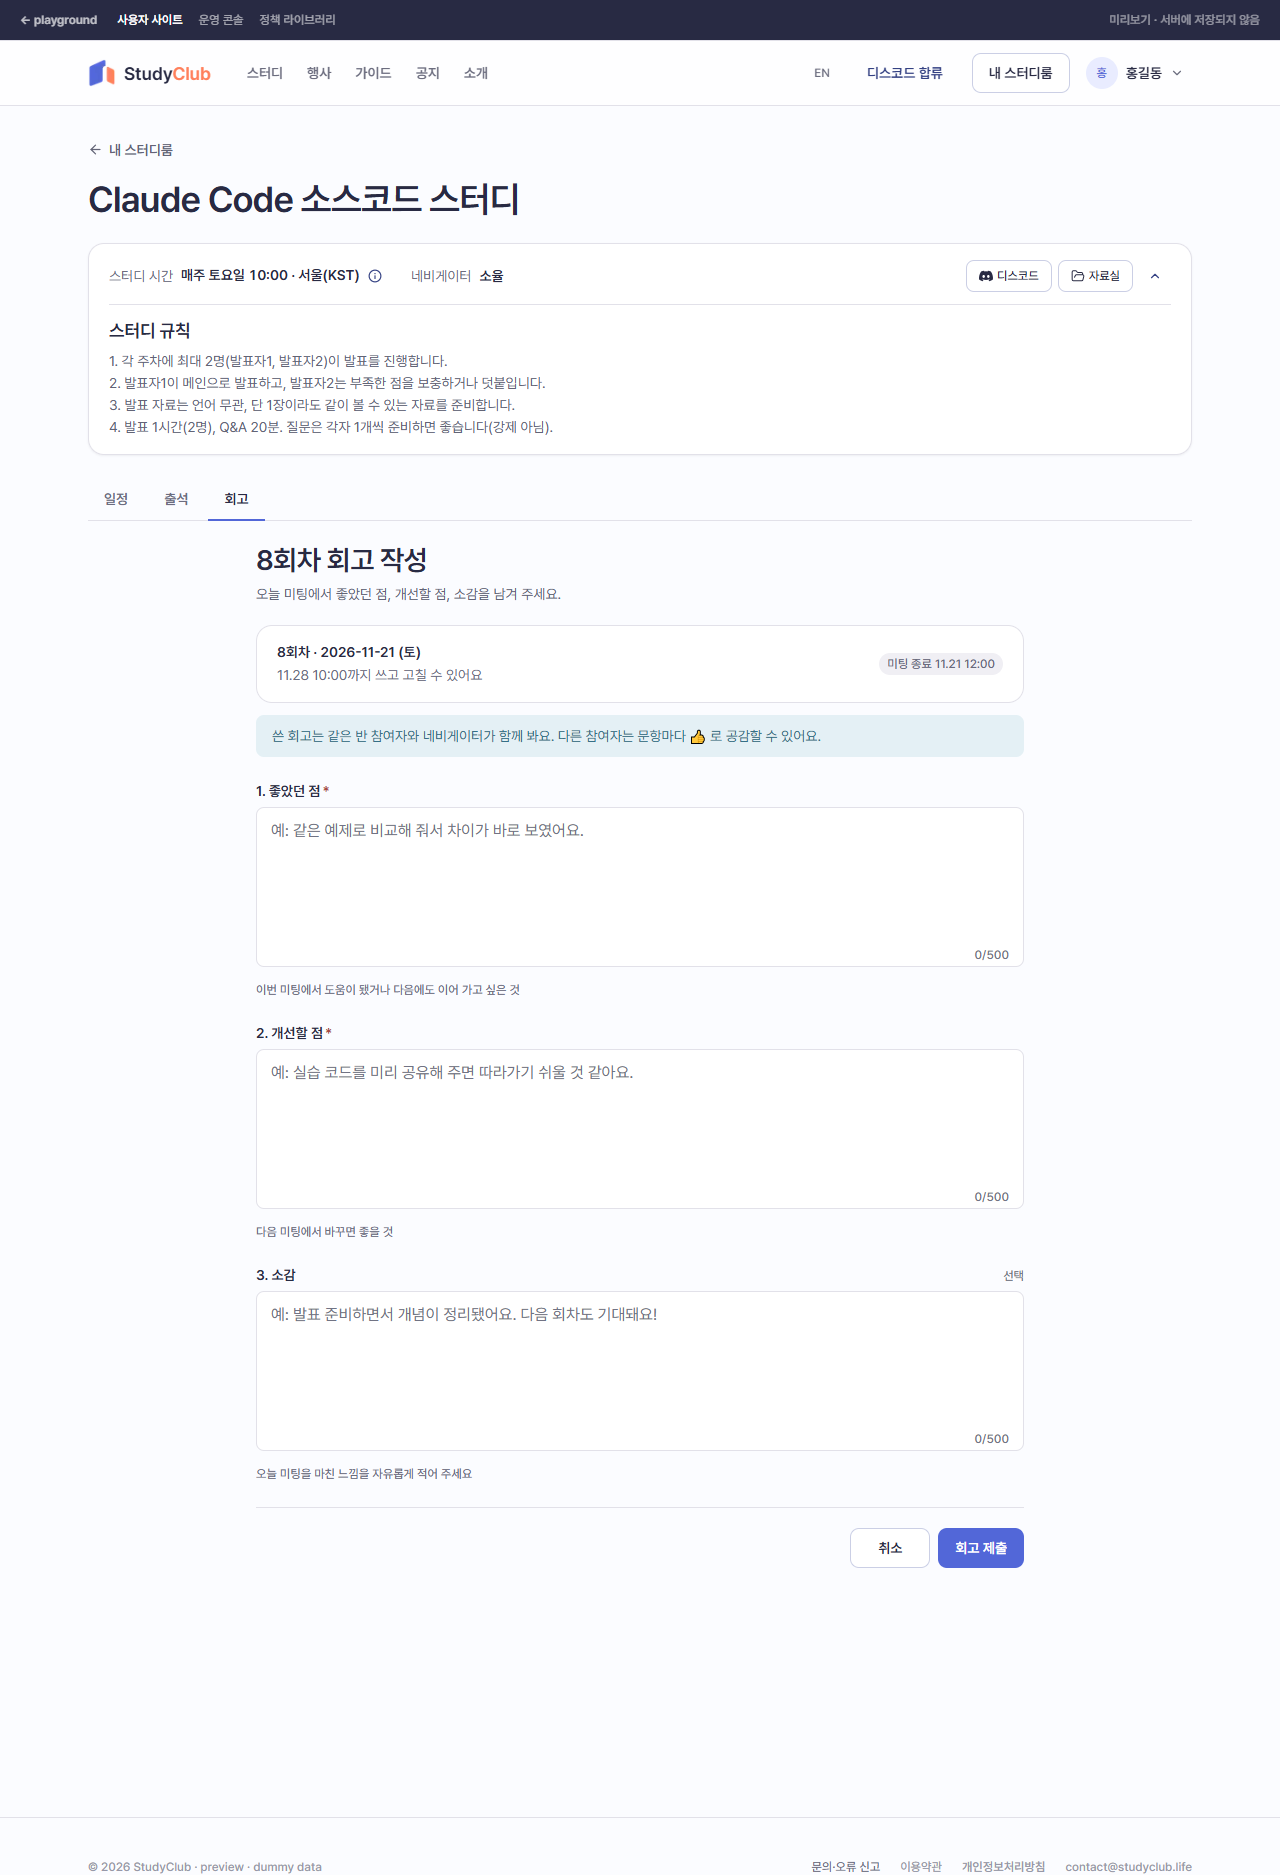
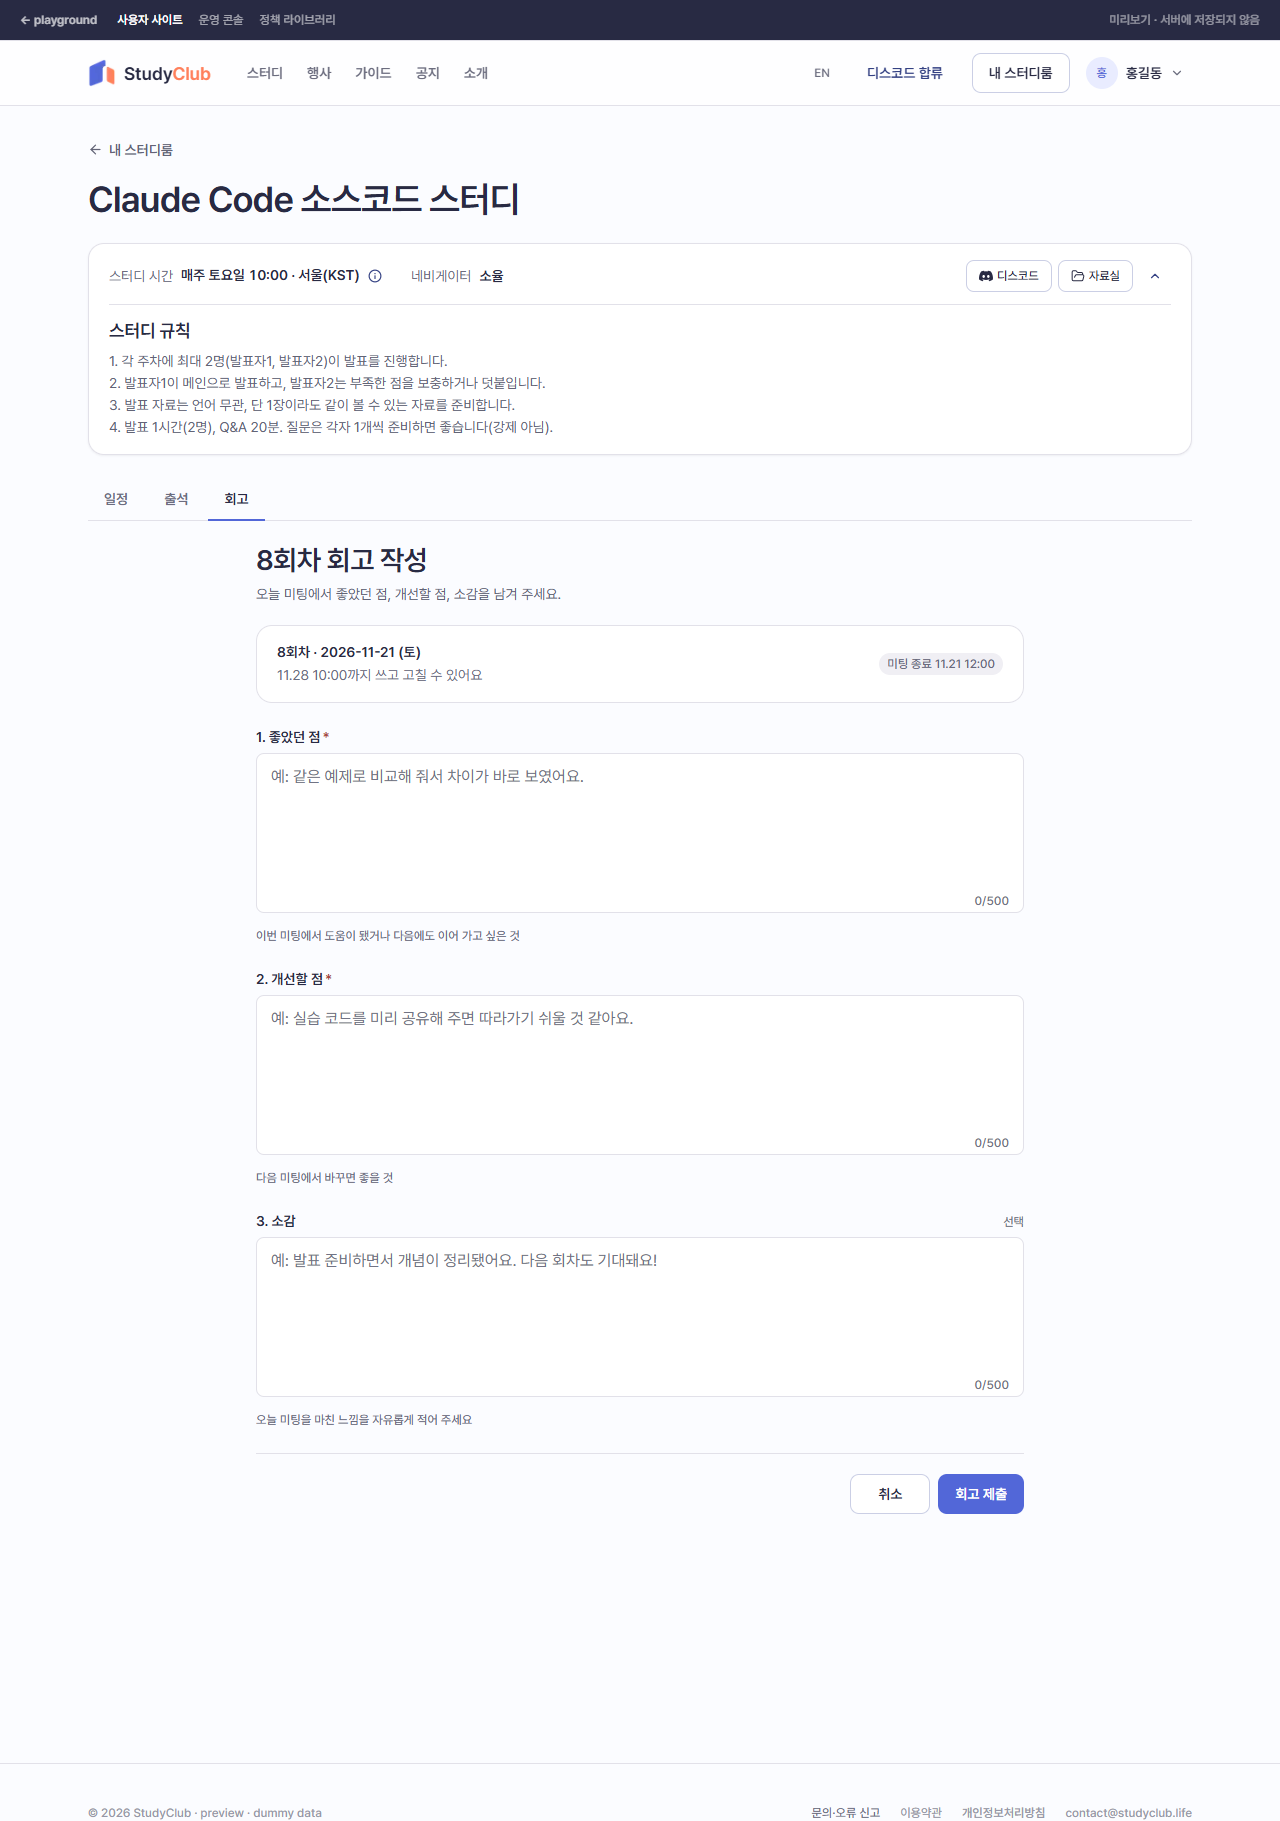
feat(playground): 회고 작성 페이지의 공개 범위 안내 문구를 뺀다

diff --git a/frontend/apps/playground/src/app/(proto)/proto/core/[locale]/my/joined/[id]/schedule/retro/spec.ts b/frontend/apps/playground/src/app/(proto)/proto/core/[locale]/my/joined/[id]/schedule/retro/spec.ts
@@ -146,10 +146,7 @@ export const CREW_RETRO_SPEC: ScreenSpec = {
     {
       n: '7',
       title: '작성 페이지 회차 정보',
-      display: [
-        '회차 · 날짜(요일) · 제목 · 기한(2-3과 같은 문구) · 미팅 종료 시각',
-        '안내 「쓴 회고는 같은 반 참여자와 네비게이터가 함께 봐요. 다른 참여자는 문항마다 👍 로 공감할 수 있어요.」',
-      ],
+      display: ['회차 · 날짜(요일) · 제목 · 기한(2-3과 같은 문구) · 미팅 종료 시각'],
     },
     {
       n: '8',
@@ -193,7 +190,10 @@ export const LEAD_RETRO_SPEC: ScreenSpec = {
     {
       n: '1',
       title: '작성 현황 목록',
-      display: ['그 회차의 참여자마다 「작성」 · 「미작성」', '일정 표 회고 칸에는 작성 수를 보이지 않는다 — 회고 탭에서만 본다'],
+      display: [
+        '그 회차의 참여자마다 「작성」 · 「미작성」',
+        '일정 표 회고 칸에는 작성 수를 보이지 않는다 — 회고 탭에서만 본다',
+      ],
       policy: [
         '쓴 사람이 앞, 안 쓴 사람이 뒤',
         '쓸 사람 = 그 회차 시작 때 반에 있던 참여자. 그전에 참여를 중단한 사람은 뺀다',

diff --git a/frontend/apps/playground/src/proto/core/components/MeetingRetro.tsx b/frontend/apps/playground/src/proto/core/components/MeetingRetro.tsx
@@ -497,9 +497,6 @@ export function RetroWriteForm({
         </div>
         <Badge tone='ended'>미팅 종료 {shortDateTime(end.toISOString())}</Badge>
       </div>
-      <p className='mt-3 rounded-control bg-info-bg px-4 py-2.5 type-body-sm text-info-fg'>
-        쓴 회고는 같은 반 참여자와 네비게이터가 함께 봐요. 다른 참여자는 문항마다 👍 로 공감할 수 있어요.
-      </p>
 
       <form
         data-anno='retro:8'

diff --git a/01-planning/stories/crew-write-meeting-retro/PRD.md b/01-planning/stories/crew-write-meeting-retro/PRD.md
@@ -172,9 +172,7 @@ flowchart LR
 
 ### 7 — 작성 페이지 회차 정보
 
-- **내용**
-  - 회차 · 날짜(요일) · 제목 · 기한(2-3과 같은 문구) · 미팅 종료 시각
-  - 안내 「쓴 회고는 같은 반 참여자와 네비게이터가 함께 봐요. 다른 참여자는 문항마다 👍 로 공감할 수 있어요.」
+- **내용**: 회차 · 날짜(요일) · 제목 · 기한(2-3과 같은 문구) · 미팅 종료 시각
 
 ### 8 — 작성 폼
 
